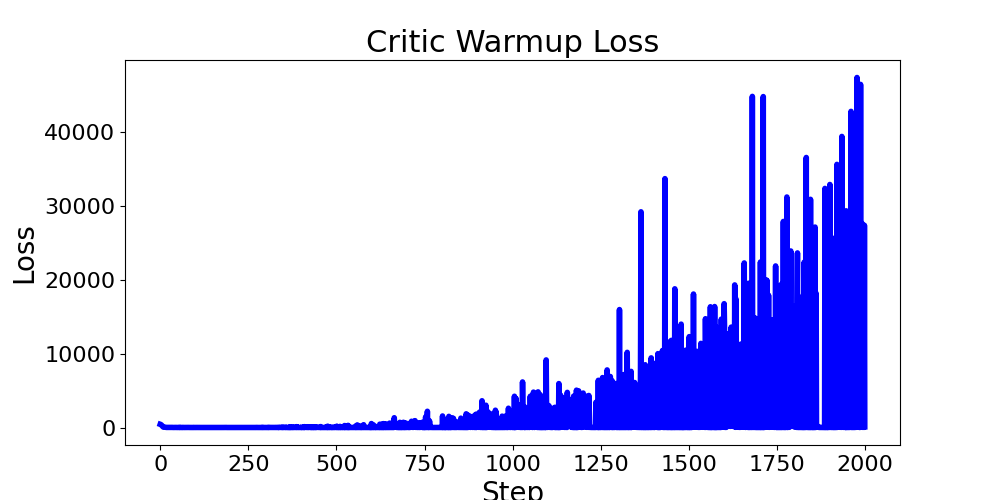
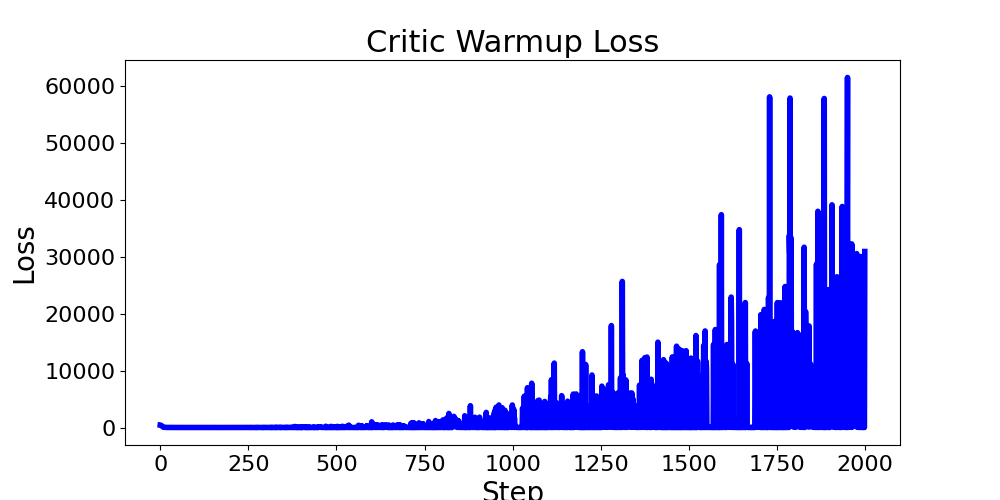
unused files removed and rtd_rl updated

diff --git a/src/envs/rl/rtd_rl.py b/src/envs/rl/rtd_rl.py
@@ -174,14 +174,12 @@ def compile_rtd_rl_ballistic_arc_descent(dynamic_pressure_threshold = 10000):
     
     def reward_func_lambda(state, done, truncated):
         x, y, vx, vy, theta, theta_dot, gamma, alpha, mass, mass_propellant, time = state
-        density, atmospheric_pressure, speed_of_sound = endo_atmospheric_model(y)
-        speed = math.sqrt(vx**2 + vy**2)
-        dynamic_pressure = 0.5 * density * speed**2
         abs_alpha_effective = abs(gamma - theta - math.pi)
 
         reward = (math.pi - abs_alpha_effective)/math.pi
         if done:
             reward += 3.5
+        reward /= 100
         return reward
 
     return reward_func_lambda, truncated_func_lambda, done_func_lambda
